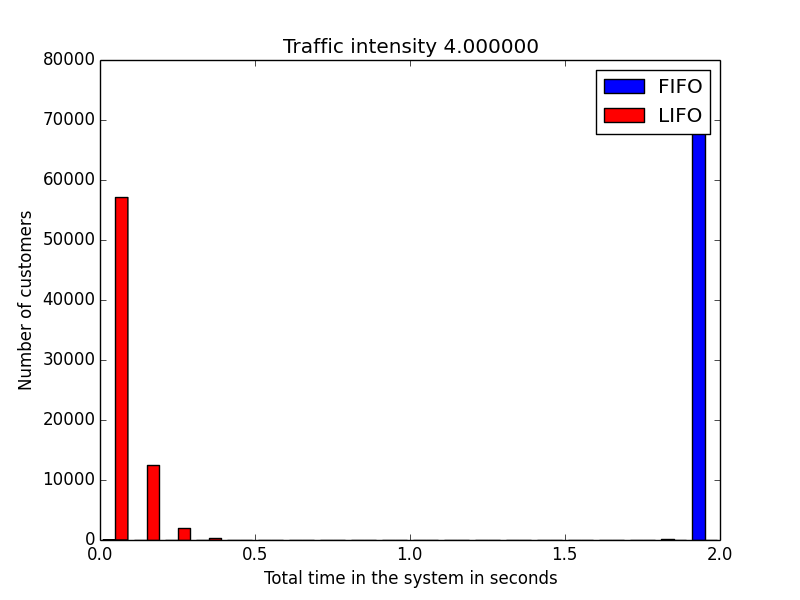
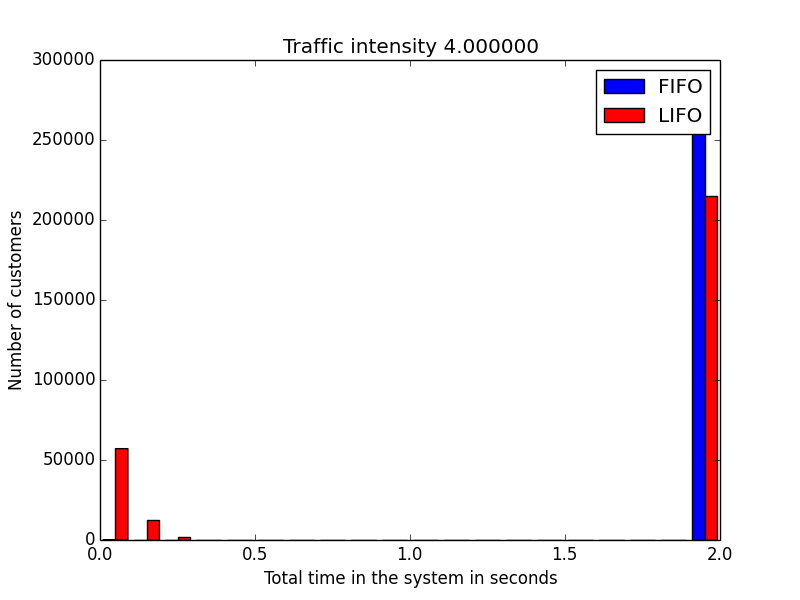
Fix to simulation.py to include timed out clients in the graphs. Also fix to run.sh

diff --git a/simulation.py b/simulation.py
@@ -190,8 +190,8 @@ class Customer(object):
   def _done(self, timed_out):
     system_duration = clock_ts - self._entry_ts
 
-    if not timed_out:
-      Customer._system_durations.append(system_duration)
+    #if not timed_out:
+    Customer._system_durations.append(system_duration)
 
     Customer._total_system_duration += system_duration
     Customer._total_customers += 1

diff --git a/README.md b/README.md
@@ -1,1 +1,3 @@
 Supporting software for https://medium.com/@josvisser/fifo-considered-harmful-793b76f98374
+
+This software requires numpy and mathplotlib to run.
